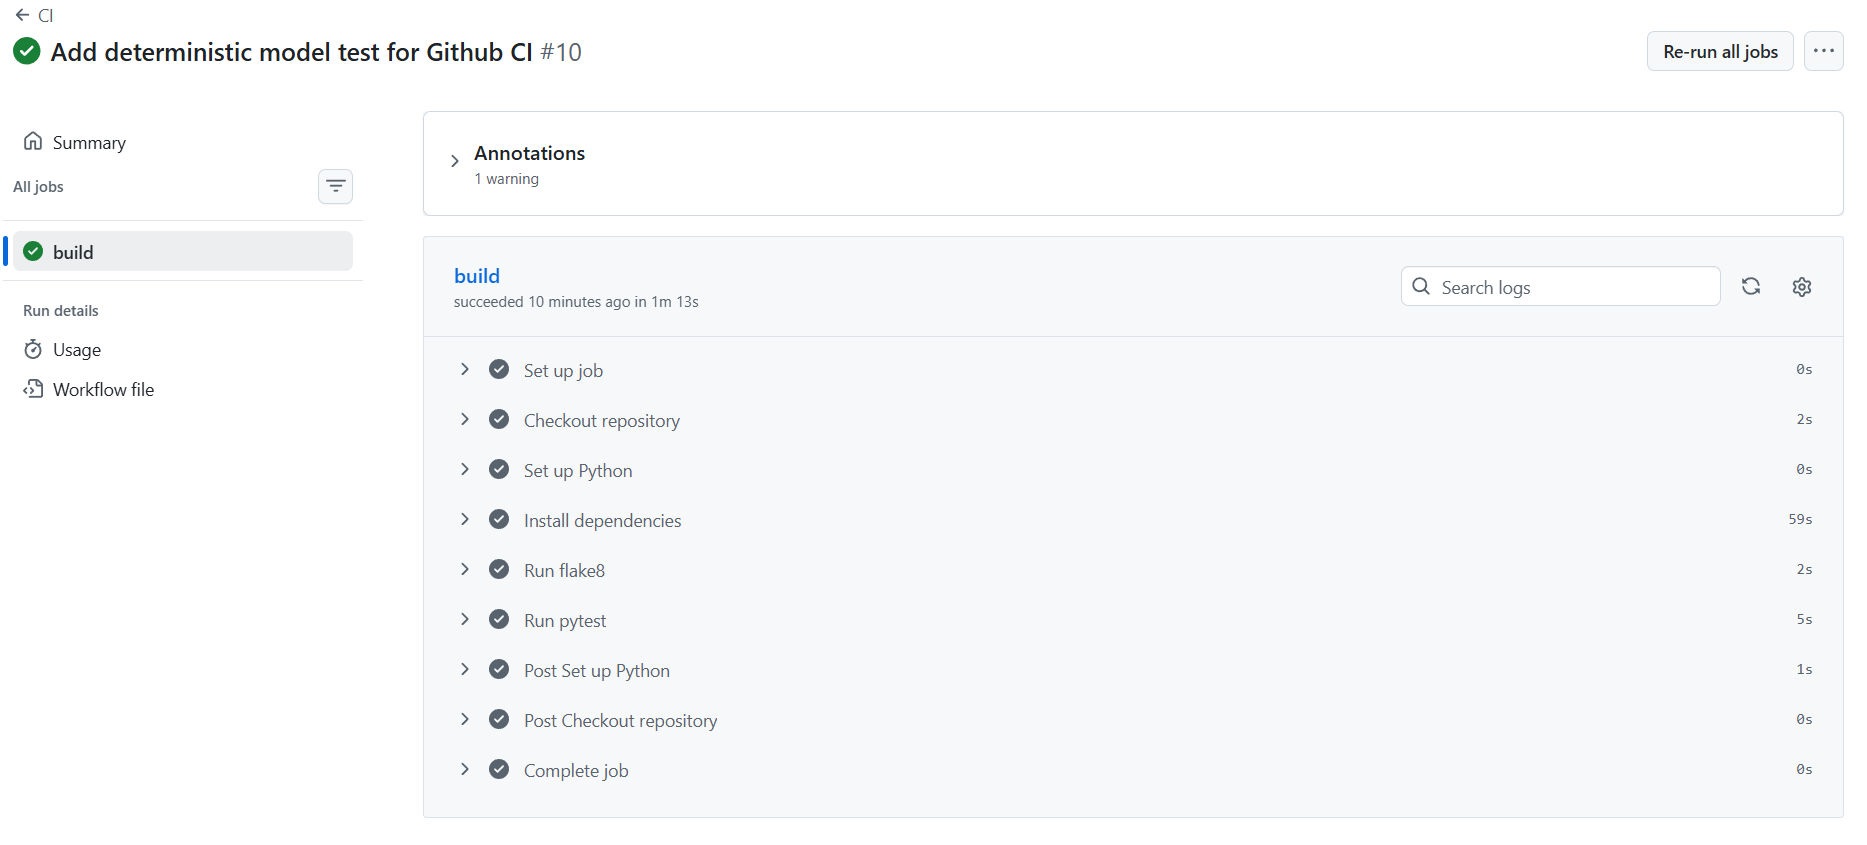
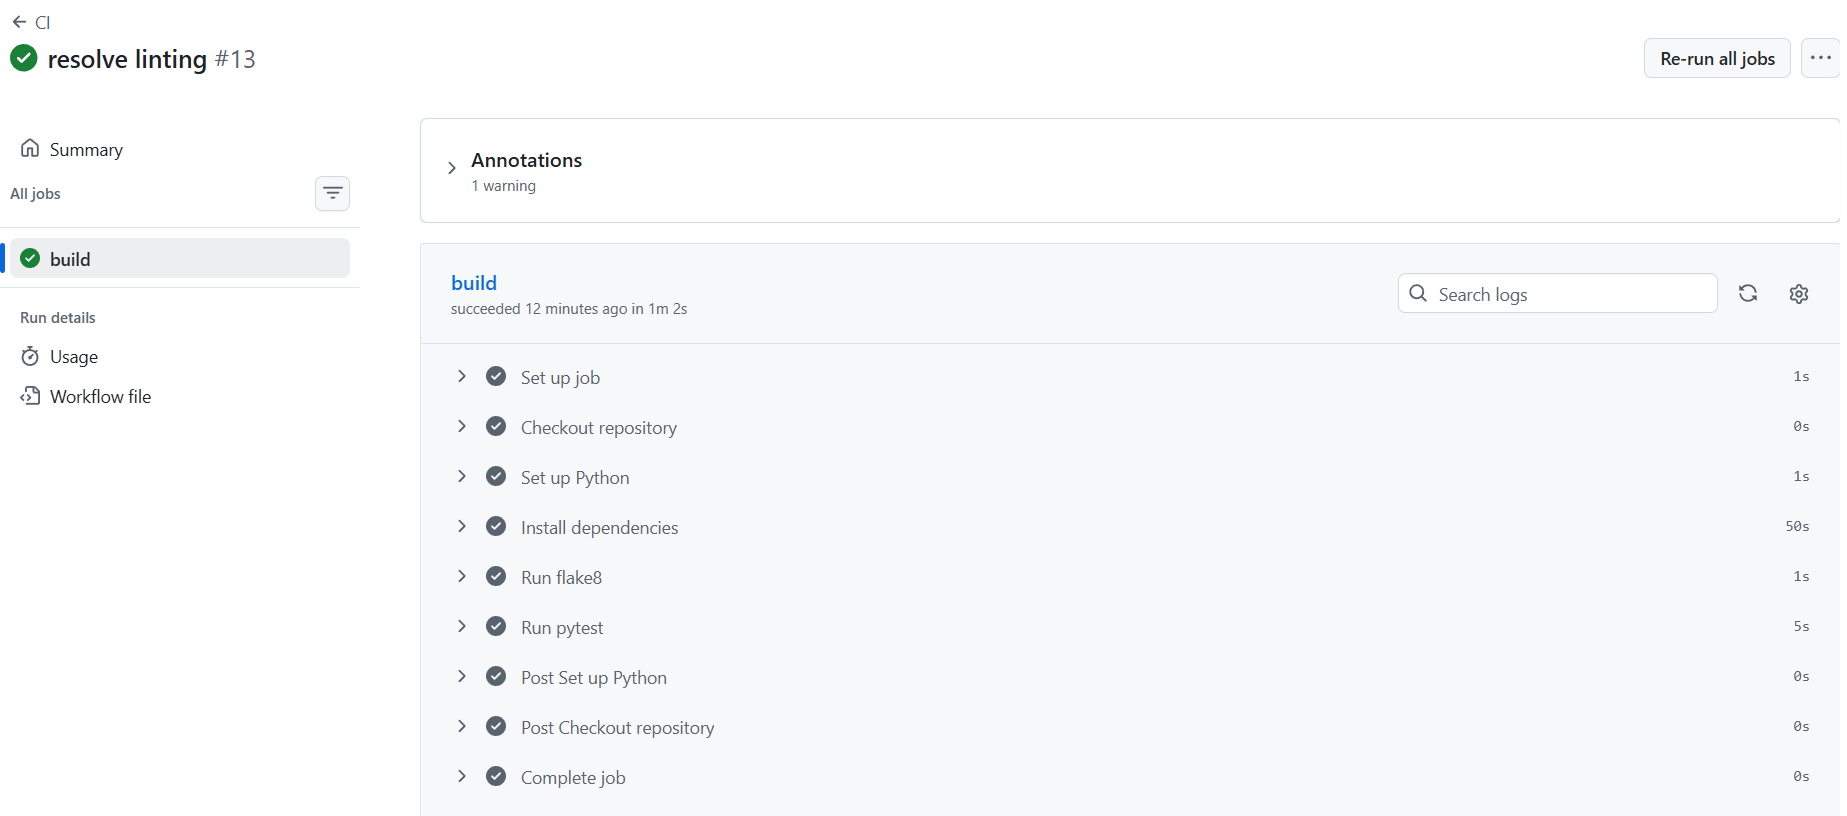
update README and add live_api_tst 4 live testing

diff --git a/live_api_tst.py b/live_api_tst.py
@@ -1,0 +1,25 @@
+import requests
+
+URL = "https://census-income-api-egrx.onrender.com/proxy/8000/predict"
+
+payload = {
+    "age": 52,
+    "fnlgt": 287927,
+    "workclass": "Private",
+    "education": "Masters",
+    "marital-status": "Married-civ-spouse",
+    "occupation": "Exec-managerial",
+    "relationship": "Husband",
+    "race": "White",
+    "sex": "Male",
+    "education-num": 14,
+    "capital-gain": 15000,
+    "capital-loss": 0,
+    "hours-per-week": 60,
+    "native-country": "United-States"
+}
+
+response = requests.post(URL, json=payload)
+
+print("Status:", response.status_code)
+print("Raw Response:", response.text)

diff --git a/README.md b/README.md
@@ -42,15 +42,23 @@ The app includes:
 
  `pytest -q`
 
-## Model Card located at starter/model_card.md
+### Model Card located at starter/model_card.md
 
-## Output of compute_slice_metrics function located at starter model/slice_ouput.txt
+### Output of compute_slice_metrics function located at starter model/slice_ouput.txt
 
-## continuous_integration.png file located under starter/screenshots folder
+### continuous_integration.png file located under starter/screenshots folder
+
+### Render APP Deployment
+ - Files stored in public S3 bucket, used this strategy for consistency and simplicity
+ - URL for App: https://census-income-api-egrx.onrender.com
+ - run `python test_api_tst.py` to test predict endpoint
+
+### Github Repo URL
+  - https://github.com/Sayed997/udacity_mlops_census_fastapi
 
 --------------------------------------
 
-## Repositories
+# Repositories
 * Create a directory for the project and initialize git.
     * As you work on the code, continually commit changes. Trained models you want to use in production must be committed to GitHub.
 * Connect your local git repo to GitHub.